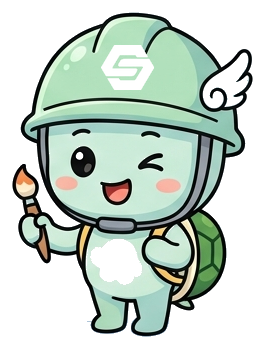
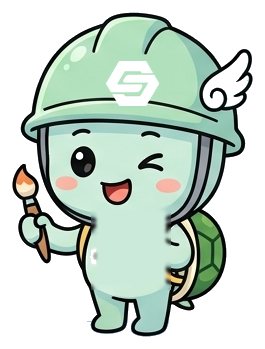
캐릭터 기존 엠블럼 제거 + 로고 위치 통일 + 그림자 일관화
- safe V, quali 기어, goods 거북이 엠블럼 제거 (헬멧/몸 색으로 덮어 블러 블렌딩)
- 신성 S 로고 위치를 Future 기준으로 모든 캐릭터 통일 (cy=22%, 폭=22%)
- hero·chapter 전반에 일관된 drop-shadow 적용 (safe 기준)

Changed region(s): [[0.3321, 0.6017, 0.6642, 0.8309], [0.3623, 0.1146, 0.6038, 0.3152], [0.3321, 0.8023, 0.3623, 0.8309]]

diff --git a/safety-characters/styles.css b/safety-characters/styles.css
@@ -188,6 +188,7 @@ ul{ list-style:none; }
 .hero__char .ph{
   width: 100%; height: 100%;
   object-fit: contain;
+  filter: drop-shadow(0 22px 24px rgba(21,25,42,0.22));
 }
 .hero__char{ aspect-ratio: 1 / 1.25; animation: float 6s ease-in-out infinite; }
 .hero__char--1{ width: 28%; left: 2%;   bottom: 2%;   z-index: 5; animation-delay: 0s;   }
@@ -378,7 +379,7 @@ ul{ list-style:none; }
   max-height: 560px;
   width: auto;
   max-width: 100%;
-  filter: drop-shadow(0 30px 40px rgba(21,25,42,0.18));
+  filter: drop-shadow(0 22px 24px rgba(21,25,42,0.22));
   transform: translateY(20px);
   opacity: 0;
   transition: transform 1s cubic-bezier(.2,.7,.2,1), opacity 1s;
